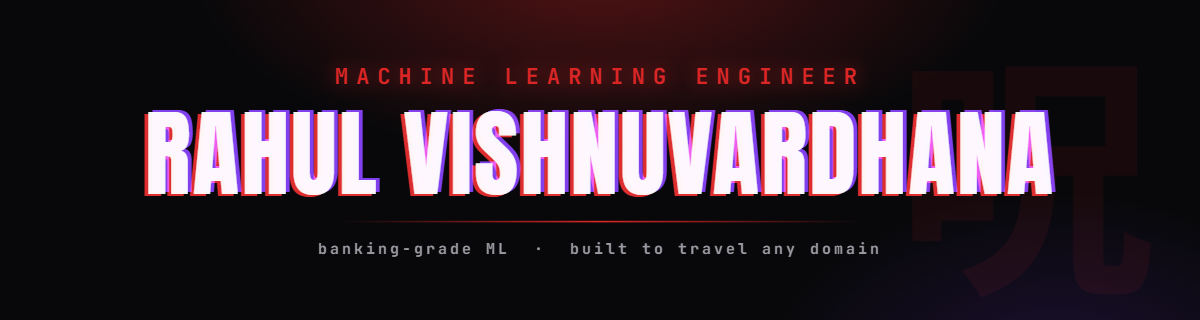
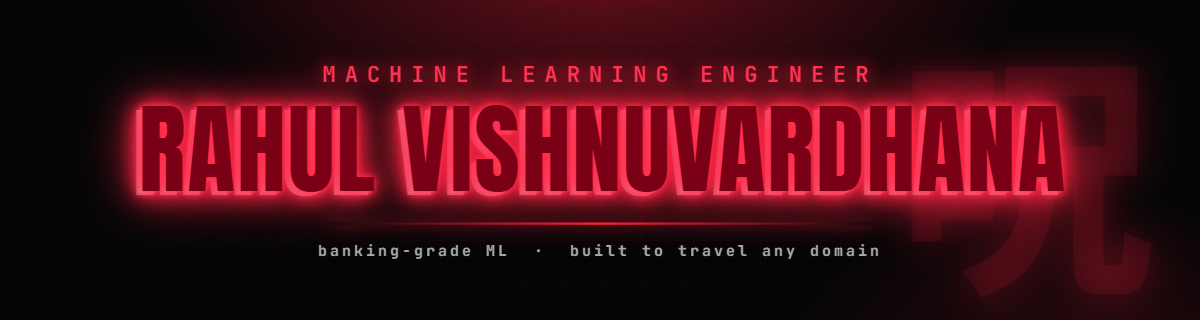
feat: neon dark-red theme + custom live-monitor dashboard (EKG + equalizer), drop meteors

diff --git a/README.md b/README.md
@@ -3,9 +3,9 @@
 
 <div align="center">
 
-[![Typing SVG](https://readme-typing-svg.demolab.com?font=JetBrains+Mono&weight=600&size=22&pause=1000&color=DC2626&center=true&vCenter=true&width=780&lines=Machine+Learning+Engineer;Domain+Expansion%3A+banking-grade+ML;Predicting+failure+before+it+happens;Sequence+models+%C2%B7+Anomaly+detection+%C2%B7+Streaming+ML)](https://rahulvishnuvardhana.vercel.app)
+[![Typing SVG](https://readme-typing-svg.demolab.com?font=JetBrains+Mono&weight=600&size=22&pause=1000&color=FF1E3C&center=true&vCenter=true&width=780&lines=Machine+Learning+Engineer;Domain+Expansion%3A+banking-grade+ML;Predicting+failure+before+it+happens;Sequence+models+%C2%B7+Anomaly+detection+%C2%B7+Streaming+ML)](https://rahulvishnuvardhana.vercel.app)
 
-[![Portfolio](https://img.shields.io/badge/Portfolio-DC2626?style=for-the-badge&logo=vercel&logoColor=white)](https://rahulvishnuvardhana.vercel.app)
+[![Portfolio](https://img.shields.io/badge/Portfolio-FF1E3C?style=for-the-badge&logo=vercel&logoColor=white)](https://rahulvishnuvardhana.vercel.app)
 [![LinkedIn](https://img.shields.io/badge/LinkedIn-0A66C2?style=for-the-badge&logo=linkedin&logoColor=white)](https://www.linkedin.com/in/rahul-vishnuvardhana-197890266/)
 [![Résumé](https://img.shields.io/badge/R%C3%A9sum%C3%A9-2B2B2B?style=for-the-badge&logo=readdotcv&logoColor=white)](https://rahulvishnuvardhana.vercel.app/resume.pdf)
 [![Email](https://img.shields.io/badge/Email-D14836?style=for-the-badge&logo=gmail&logoColor=white)](mailto:vishnuvardhana.r@northeastern.edu)
@@ -62,12 +62,12 @@ I build machine learning systems that turn messy, real-world data into decisions
 
 <div align="center">
 
-<img src="https://streak-stats.demolab.com?user=rahulvishnuvaradhana32-ctrl&hide_border=true&background=00000000&stroke=808080&ring=DC2626&fire=DC2626&currStreakLabel=DC2626&titleColor=DC2626&sideLabels=808080&dates=808080&currStreakNum=808080&sideNums=808080&dayLabels=808080" alt="commit streak" />
+<!-- custom animated neon live-monitor panel (EKG + throughput) -->
+<img width="100%" src="https://raw.githubusercontent.com/rahulvishnuvaradhana32-ctrl/rahulvishnuvaradhana32-ctrl/main/assets/dashboard.svg" alt="live monitor" />
 
-<img width="100%" src="https://github-readme-activity-graph.vercel.app/graph?username=rahulvishnuvaradhana32-ctrl&bg_color=00000000&color=DC2626&line=EF4444&point=DC2626&area=true&area_color=DC2626&hide_border=true&custom_title=Cursed%20Energy%20Output" alt="activity graph" />
+<img src="https://streak-stats.demolab.com?user=rahulvishnuvaradhana32-ctrl&hide_border=true&background=00000000&stroke=808080&ring=FF1E3C&fire=FF1E3C&currStreakLabel=FF1E3C&titleColor=FF1E3C&sideLabels=808080&dates=808080&currStreakNum=808080&sideNums=808080&dayLabels=808080" alt="commit streak" />
 
-<!-- red meteor shower (custom animated SVG) -->
-<img width="100%" src="https://raw.githubusercontent.com/rahulvishnuvaradhana32-ctrl/rahulvishnuvaradhana32-ctrl/main/assets/meteors.svg" alt="cursed energy" />
+<img width="100%" src="https://github-readme-activity-graph.vercel.app/graph?username=rahulvishnuvaradhana32-ctrl&bg_color=00000000&color=FF1E3C&line=FF5570&point=FF1E3C&area=true&area_color=FF1E3C&hide_border=true&custom_title=Contribution%20Throughput" alt="activity graph" />
 
 </div>
 
@@ -87,4 +87,4 @@ Have an opening, a hard problem, or just want to chat over coffee? **My inbox is
 
 </div>
 
-<img width="100%" src="https://capsule-render.vercel.app/api?type=waving&color=DC2626&height=120&section=footer" alt="" />
+<img width="100%" src="https://capsule-render.vercel.app/api?type=waving&color=FF1E3C&height=120&section=footer" alt="" />
